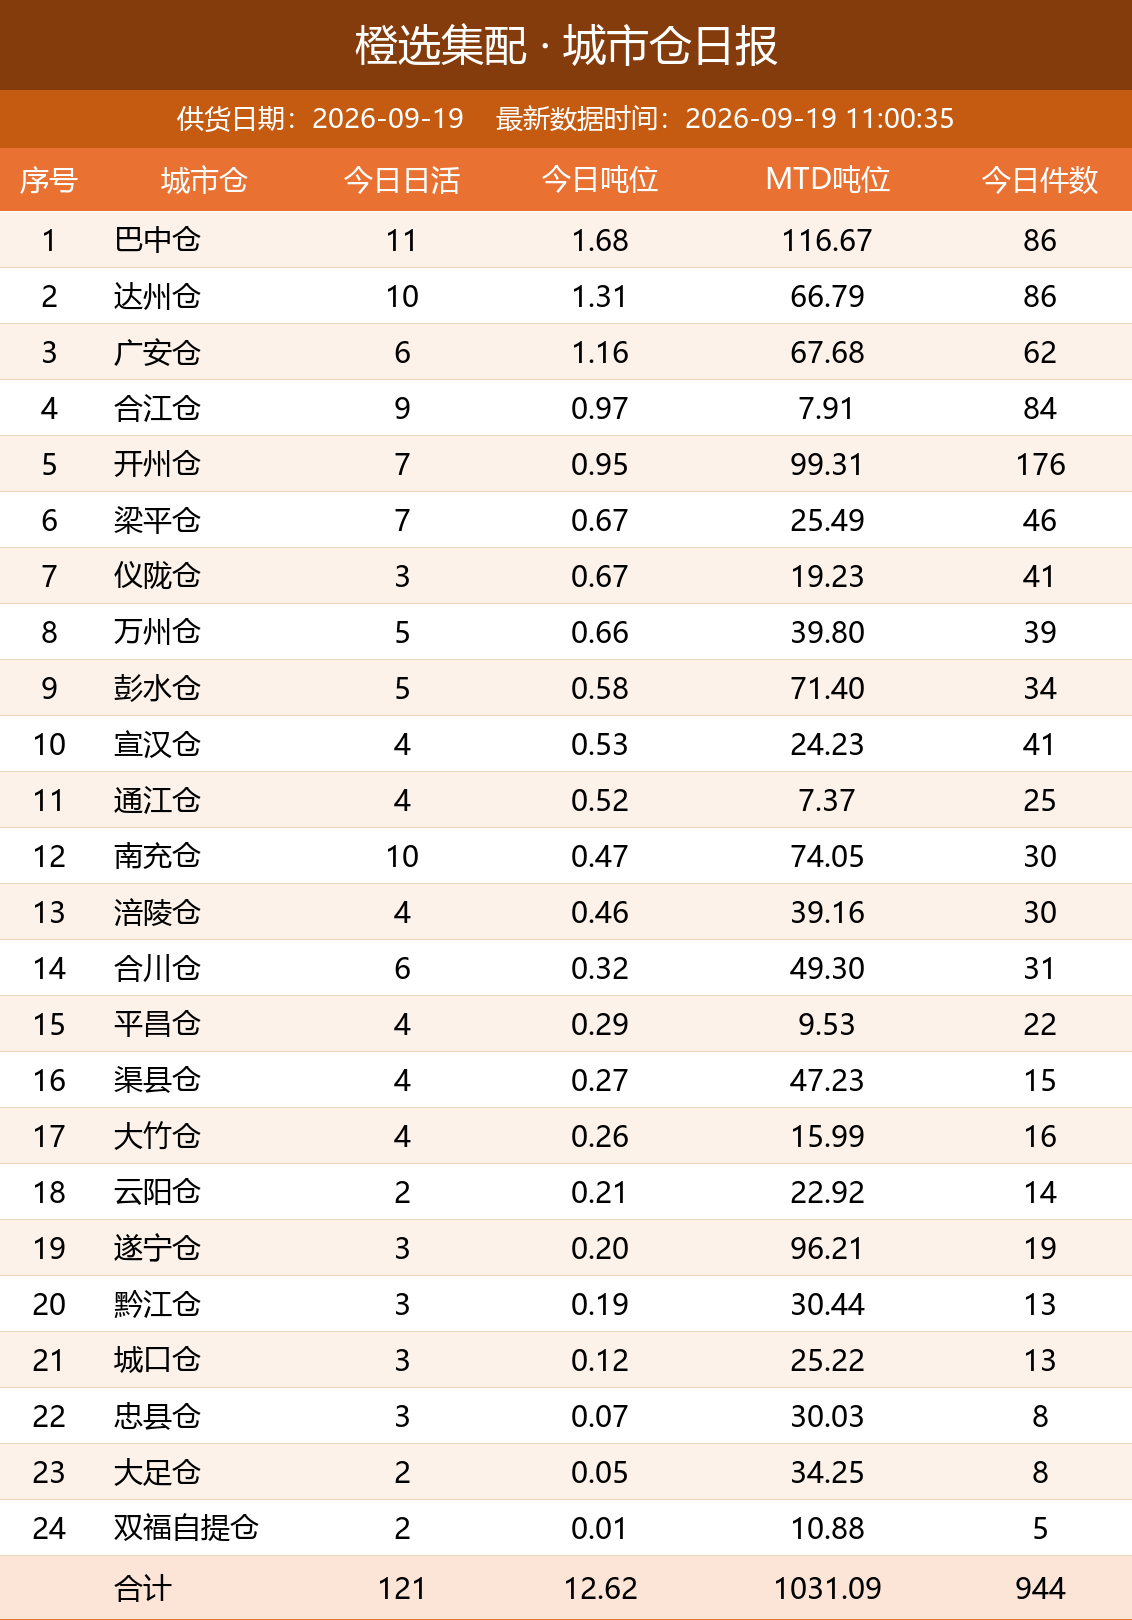
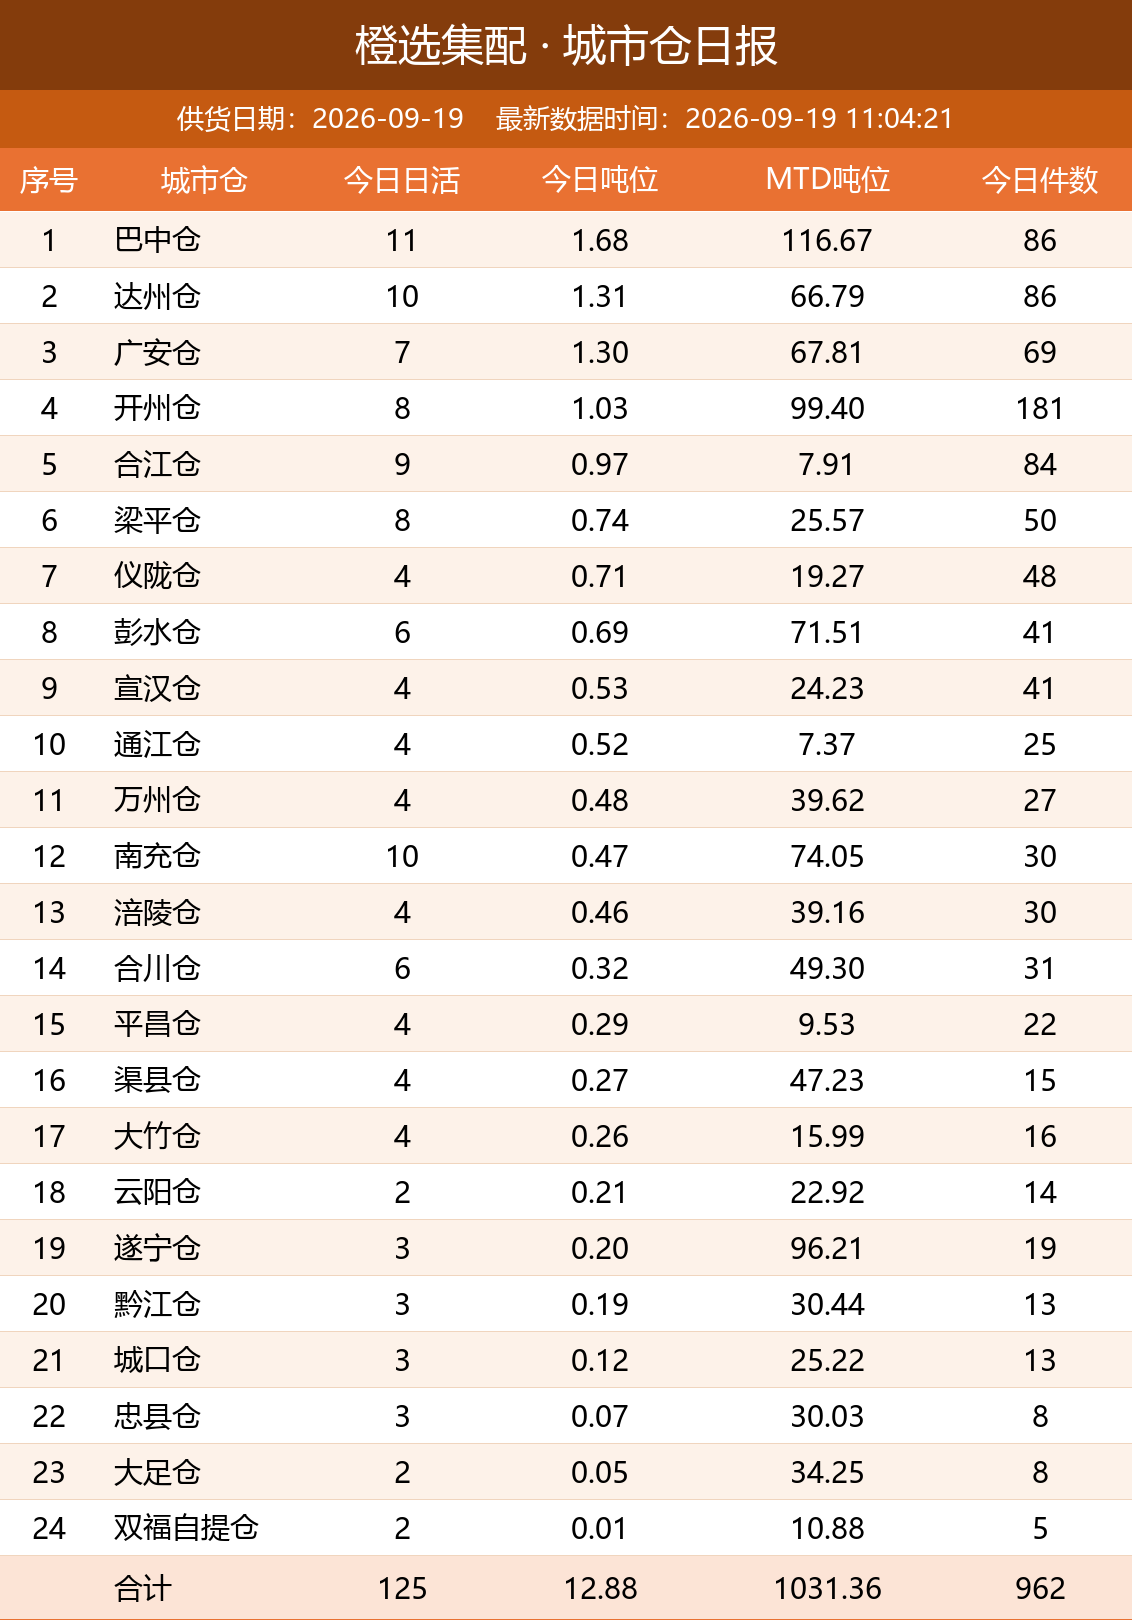
自动更新日报图片

diff --git a/index.html b/index.html
@@ -11,7 +11,7 @@ img { max-width: 100%; border: 1px solid #e5e5e5; margin-bottom: 24px; display: 
 </style>
 </head>
 <body>
-<h1>橙选集配日报图片（20260919_110144）</h1>
+<h1>橙选集配日报图片（20260919_110454）</h1>
 <img src="bd_latest.png" alt="BD 日报">
 <img src="wh_latest.png" alt="城市仓日报">
 <img src="zs_latest.png" alt="招商日报">
